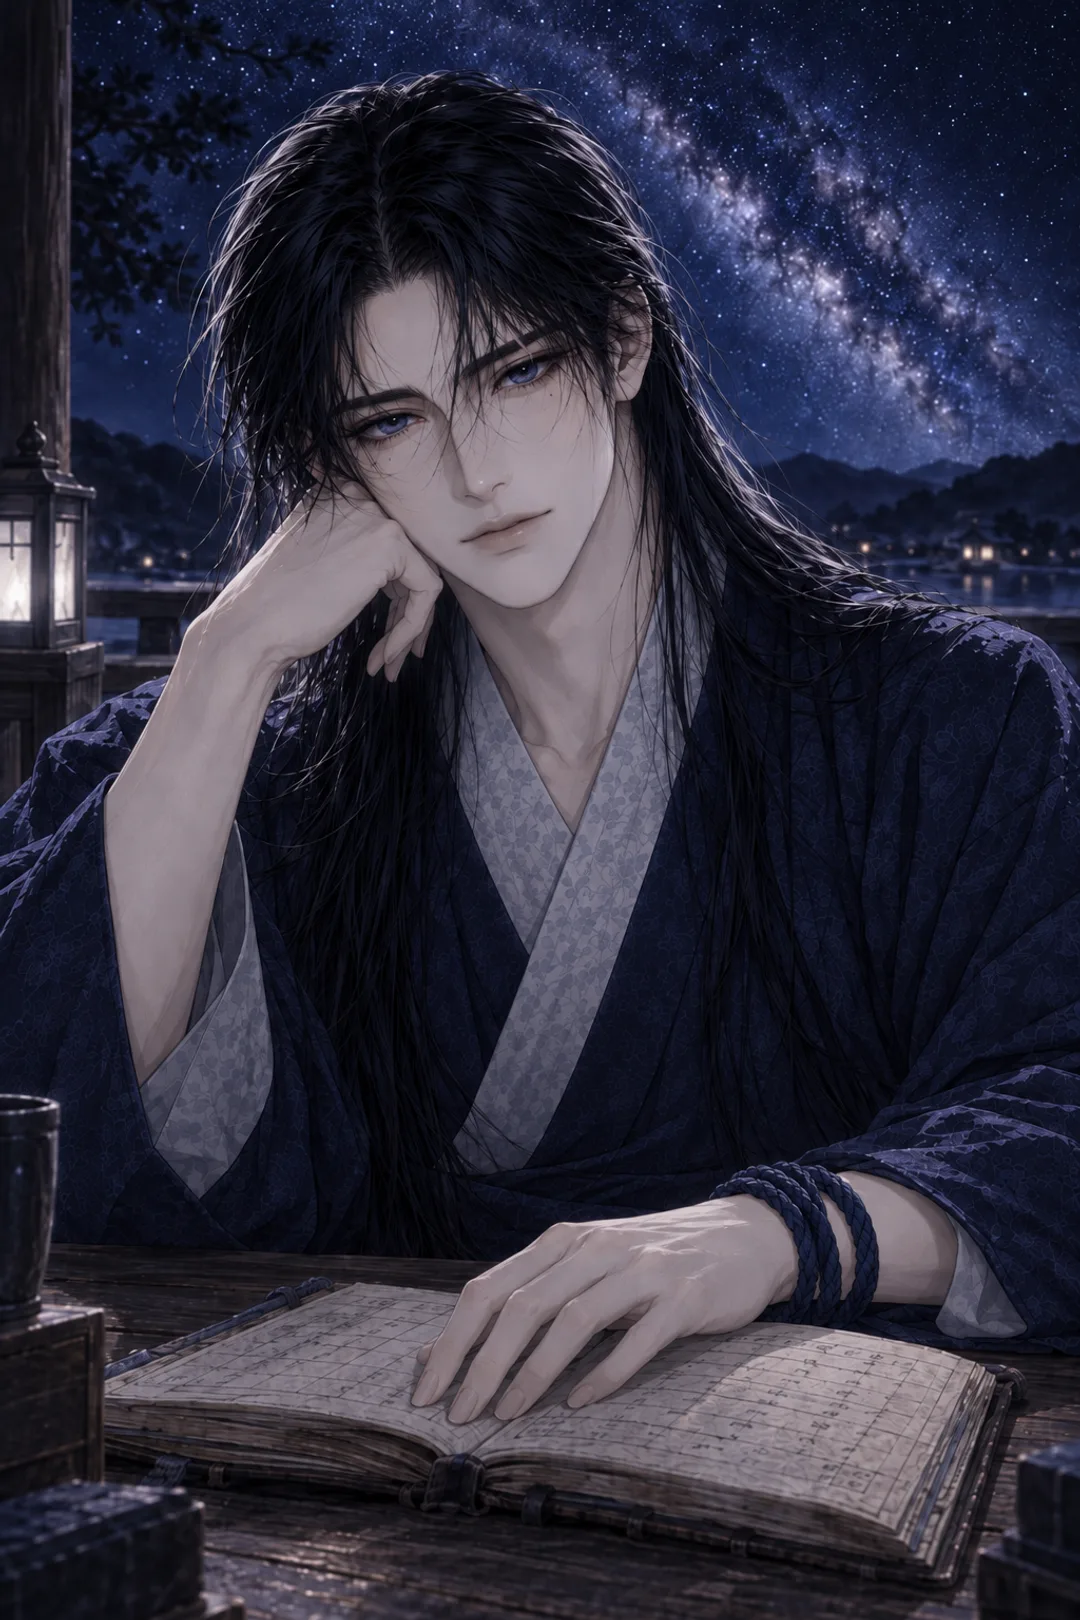
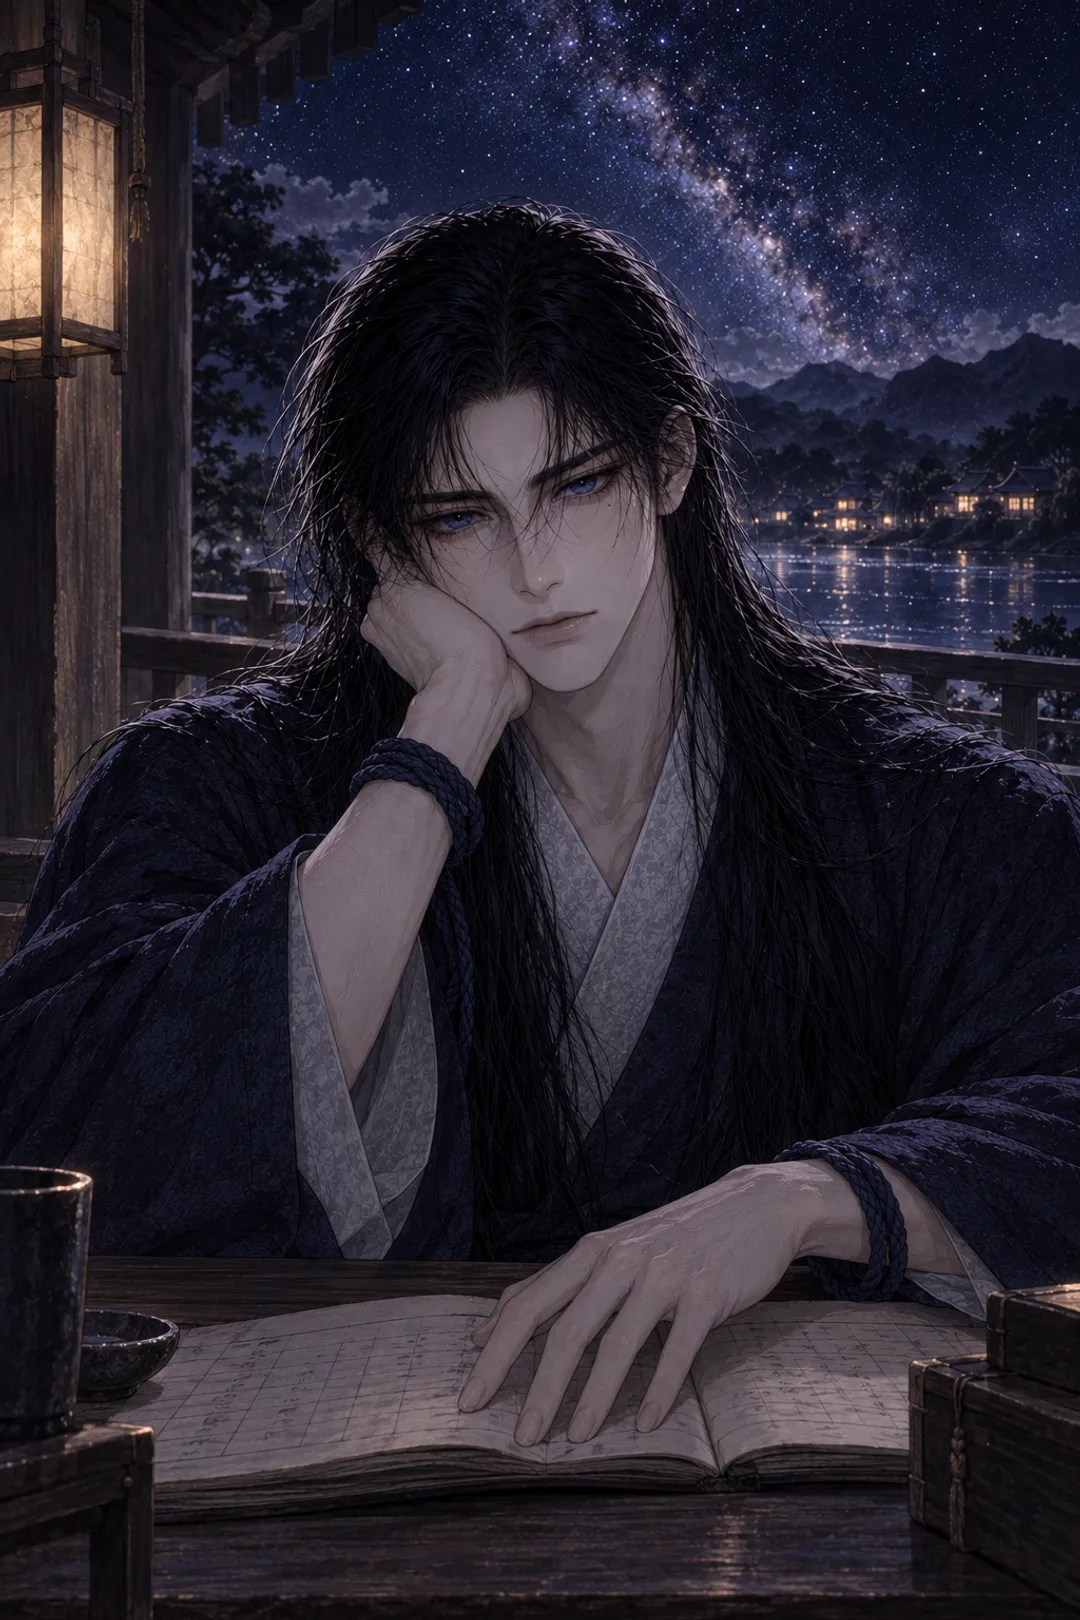
얼굴을 바꾸고도 컷이 옛 얼굴이던 것 — 시트부터 다시 파생해 인물 컷 세 장과 히어로를 새 얼굴로 갈아 끼운다
형님 픽(모피 초상판)을 fin-face 정본으로 올리고, 그 얼굴을 만든 채팅에서 이어서
6뷰 시트를 파생했다. 원판에 없던 왼눈 밑 점·홍채 별빛을 앵커 문장으로 심어 넣었고,
시트를 문맥에 둔 채로 대면·강가·배웅 컷을 연속 생성해 화풍을 한 벌로 물려받게 했다.

- 히어로는 3:2 로 자르면 말풍선이 입과 손을 통째로 덮어 눈만 남았다 → 5:6 으로 키웠다.
  첫 CTA 는 여전히 폴드(812) 안이고, 「견 우」 붓글씨 자리 최악 대비 13.2 로 잰다.
- 배웅 컷 첫 판에 보름달이 들어와 혼자 튀었다. 판넬 6장 전수 실측 결과 하늘 광원이
  은하수 하나뿐이라, 달을 지운 판으로 다시 뽑아 교체했다.
- 말풍선 자리는 두 컷 다 기존 값이 그대로 맞았다 — 라이브 DOM 실측으로 확인
  (g-river x2.5~42.5 y4~25.9 빈 하늘 / g-greet x2~46 y55~79.1 왼쪽 소매, 넘침 0).

diff --git a/src/components/products/GyeonuLanding.tsx b/src/components/products/GyeonuLanding.tsx
@@ -31,10 +31,12 @@ const BONE = "#e9ecf4";
 const SUB = "#93a0b8";
 const LINE = "rgba(207,214,230,0.22)";
 
-/** 히어로 그림 — 견우 확정 얼굴(견우/fin-face.png)을 1080폭 webp 로 구운 것. 원본 png 는 커밋 안 한다. */
+/** 히어로 그림 — 견우 확정 얼굴(견우/fin-face.png)을 1080폭 webp 로 구운 것. 원본 png 는 커밋 안 한다.
+ *  세로 5:6 인 이유(2026-09-05 실측): 말풍선이 아래 37% 를 덮는다. 3:2 로 자르면 입과 손이 통째로
+ *  가려 눈만 남았다. 5:6 으로 키우니 눈·손·고삐끈이 다 살고 첫 CTA 도 폴드(812) 안에 남는다. */
 const HERO = "/products/reunion/gyeonu-hero.webp";
 const HERO_W = 1080;
-const HERO_H = 720;
+const HERO_H = 1200;
 
 /** CTA 는 전부 이 페이지 아래 위저드로 내린다(#start). 다른 상품으로 새 나가지 않는다. */
 const CTA_HREF = "#start";

diff --git a/견우/컨셉_실행계획_2026-09-03.md b/견우/컨셉_실행계획_2026-09-03.md
@@ -1,0 +1,78 @@
+# 견우 — 컨셉·자산·영상 실행계획 (2026-09-03 새벽)
+
+> 형님 지시: 「캐릭터 시트부터 컨셉부터 어떤 영상을 만들 건지 등등 다 계획하고 실행 ㄱㄱ」
+> 상품: 「견우의 재회예보」(reunion-saju, 29,900/정가 44,900) — 코드 1·2단계 완료(워크트리 `jiknyeo-reunion` 9커밋).
+
+---
+
+## 1. 캐릭터 확정 기록 (2026-09-03 새벽, 형님 픽)
+
+- **fin-face 확정**: `견우/fin-face.png` — 형님이 ChatGPT에서 직접 몰아간 판(「별빛 아래, 긴 머리의 사내」).
+  경로: 셀 웹툰체 3판 → 반실사 → j1 담채체 → 형님 레퍼런스 2장(모던 퇴폐·한복 산발) → **B 얼굴+장발 합성판 확정**.
+- **그림체**: 정밀 반실사 K-일러 — 머리카락 낱올·매트한 창백 피부·시네마틱 밤 조명. j1(직녀) 세필과 같은 페이지에 서는 밀도.
+- **컨셉 한 줄**: 강(은하수) 건너를 바라보며 기다리는 남자. 나른한 우수 + 차가운 미모에 따뜻한 균열 하나.
+
+### 견우 5앵커 (검수 게이트 — 직녀 프로토콜 번안, 9/3 형님 「상처 준다며?」로 흉터 복귀)
+| 앵커 | 본다 |
+|---|---|
+| ① 눈 | **잉크 남색**으로 읽히나 + 은빛 별점(직녀와 커플 코드) |
+| ② 점 | **왼눈 바깥 밑** 그 자리에 있나 (직녀와 같은 자리 = 부부 운명 코드) |
+| ③ 흉터 | **오른눈썹 끝을 지나는 가늘고 옅은 옛 상처** — 견우 고유의 세월 흔적. 점=커플 코드 / 흉터=견우 서사로 역할 분담 |
+| ④ 고삐끈 | 낡은 쪽빛 고삐끈이 **왼손목**에 감겨 있나 (목동의 신분증) |
+| ⑤ 나이 | **31~33살** 성인 남성으로 읽히나 (소년·아이돌상이면 탈락) |
+| ⑥ 동일인 | **기존 합격 컷과 나란히** 같은 사람인가 (골격·눈매·인상 — 혼자 보지 말 것) |
+- 컷 뽑을 때 **첨부는 언제나 2장**: `캐릭터시트_정본.png`(부품) + 최신 합격 컷(계보). 직녀 8/26 사고 재발 방지.
+- 나이 가드 문장(매 컷 필수): "AGE IS CRITICAL: he is 33. Adult male proportions - longer oval face, defined jawline, visible nose bridge. NEVER a teenager, NEVER an androgynous boy-idol face."
+
+## 2. 시트 공정 (진행 중)
+
+1. ✅ fin-face 확보 (`견우/fin-face.png`)
+2. 🔨 **모델 시트 생성 중** (ChatGPT, fin-face 첨부, 6뷰: 정면/반측/측면/전신/표정2/시그니처 클로즈업)
+3. 시트 4앵커 검수 + fin-face 대조(⑤) → 형님 픽 → **`견우/캐릭터시트_정본.png` 승격**
+4. `견우/캐릭터시트_프롬프트.md` 작성(이 문서 §1 앵커 포함 프로토콜)
+
+## 3. 컷 발주 리스트 (시트 확정 후 — 코드 슬롯과 1:1)
+
+P2-2 실측: 티저·결과지 견우 컷 슬롯 전부 비어 있음(대사·글로 성립 중). 우선순위순:
+
+| # | 컷 id | 장면 | 쓰이는 곳 | 비고 |
+|---|---|---|---|---|
+| 1 | g-greet | 정면, 위로의 눈, 장부를 앞에 둔 반신 | 결과지 1장 도입·위저드 위로 화면 | 첫 발주(계보 시작) |
+| 2 | g-river | 강(은하수) 건너를 바라보는 반측/뒷모습 | 2장 「강이 갈라진 날」·티저 T2 | 얼굴 작음 — 나이 가드 강화 |
+| 3 | g-ledger | 장부 펴는 손 클로즈업(+고삐끈) | 4장 판정·티저 잠금 | 손+소품 컷 |
+| 4 | g-bridge | 은하수에 까치 다리가 놓이는 풍경, 견우 실루엣 | 5장 「다리가 놓이는 달」·티저 T1 배경 | 오작교 서사의 그림 |
+| 5 | g-farewell | 배웅 — 등을 보이고 손 든 컷 | 10장 편지·페이드 엔딩 | 직녀 배웅컷 대구 |
+| 6 | g-lead | 티저 반전 절단 앞 정점 컷(얼굴 클로즈업) | 티저 T5 lead | fin-face 재활용 검토 |
+
+- 발주 문장은 `견우/에셋_생산_프롬프트시트.md`(작성 예정)에 고정 블록+컷별 COMPOSITION으로.
+- 검수: 컷마다 4앵커 30초 + **기존 컷 옆에 붙인 대조 시트**(⑤). 2개 이상 어긋나면 리터치 말고 재생성.
+
+## 4. 영상 계획 — 광고 4종 (전부 아카이브 실측 근거)
+
+| # | 소재 | 설계 | 근거(실측) | 도구·비용 |
+|---|---|---|---|---|
+| V1 | **견우 시네마틱 루프** (메인) | 확정 컷 정지화 → 머리카락·은하수만 흐르고 인물은 석상. 자막 = 훅 A/B(기획서 §7) | 신점 레인 판독 「이 레인에 제대로 만든 영상이 없다 — 전부 정지컷 슬라이드쇼 아니면 폰 UGC」 + 산군 A-1이 같은 공식으로 레인 유일 시네마틱 | 힉스필드 「살아있는 루프」 레시피(8/23 실측: 첫만+카메라 고정+인물 석상+요소 명령) |
+| V2 | **읽씹의 밤 UI 모션** | 카톡 알림 UI 위장 + 「마지막 톡 ○일째」 카운터 → 훅 C 착지 | 재회 레인 실측 「카톡 알림 화면 위장: 22:41 + 전남친 후회가 오는 시기」 + 「읽씹, 차단」 후기 | CapCut 조립, 인물 발화 0, 제작비 0 |
+| V3 | **결과지 채워지는 애니** | 재회 티저·결과지 실물이 스르륵 채워지는 화면 녹화 | 음양관 커리어 실측 「결과지 UI 채워지는 애니메이션」(예외적으로 뛰어난 2편 중 하나) + 상품 실물 증거 | 화면 녹화+CapCut, 제작비 0 |
+| V4 | **오작교 게이트 루프** | 은하수에 다리가 놓이는 5~7초 — 티저 T1 배경/게이트 영상 | 직녀 w2·w4 게이트 영상 선례 + 오작교 서사 | 힉스필드, g-bridge 정지컷 기반 |
+| 보류 | 서윤 UGC 재회판 | 서윤 서사가 원래 재회(「헤어진 사람한테 연락하고 싶다」) | ⑥ 서윤 이관 픽 **대기** — 산군 세트와 같은 얼굴 동시 노출 금지 규칙 | Seedance+CapCut(기존 파이프) |
+
+**공통 금지(산군 소재 규칙 준용)**: 가격·할인·% 자막 금지 · 연·월 구체 숫자 자막 금지 · 「웹툰」을 셀링포인트로 쓰지 않음(2사 선점 실측) · 박수무당 직접 발화형 금지 규칙은 견우에도 준용(견우 립싱크 금지, 무성+TTS·자막). TTS는 Supertonic 남성 저음(로컬 0원) 우선.
+
+## 5. 코드 잔여 (P2-3 — Opus)
+
+1. 🔴 **DB 시드 미실행** — `pnpm seed:products` 는 상품을 **라이브 공개**하는 행위. 운영에서 지금 재회 페이지 404(실측). **형님 승인 게이트.** (배포 순서: 브랜치 push→main 병합→배포→시드가 안전)
+2. **재회 전용 랜딩 없음** — 위저드 위가 공용 보라 템플릿. 견우 세계관 랜딩(광고 착지) 필요.
+3. 견우 컷 배선 (§3 완료 후 슬롯에 얹기)
+4. **표본 검증** — 서윤 명식으로 결과지 실생성(API) → 린터·출고 게이트 → DOM 실측 → 캡처 눈검수
+5. 공용 해요체 문구(콜드리딩 3줄·짝 프로필 표)의 견우 담백체 분리 — 4상품 공용 파일이라 신중히
+
+## 6. 순서
+
+```
+지금   시트 생성(굽는 중) → 검수 → 형님 픽 → 정본 승격
+  →   프로토콜·에셋시트 문서 → 컷 1~6 발주(밤 사이 가능한 만큼) → 대조 검수
+  →   P2-3 발사(랜딩+표본+게이트, Opus) — 컷과 병행
+  →   V4·V1 정지컷 → 힉스필드 모션 → V2·V3 조립
+게이트  ① 시드·배포 = 형님 승인 ② 시트·컷 픽 = 형님 ③ 서윤 이관 = 형님 픽 대기
+```

diff --git a/견우/캐릭터시트_프롬프트.md b/견우/캐릭터시트_프롬프트.md
@@ -1,0 +1,81 @@
+# 견우 캐릭터 유지 장치 — 시트 정본 + 첨부 프로토콜 (2026-09-04)
+
+> 목적: 컷을 여러 장 뽑는 동안 **얼굴 드리프트**를 막는다. 직녀 프로토콜(`직녀/캐릭터시트_프롬프트.md`)의 견우판.
+> 확정 얼굴: `견우/fin-face.png` (**2026-09-05 형님 확정 — 모피 초상판**: 별빛 아래 손등 입가림, 가늘고 날카로운 눈매.
+>   구판 B얼굴+장발은 `fin-face_v1_B얼굴장발.png` 로 보관)
+> 정본 시트: `견우/캐릭터시트_정본.png` (**2026-09-05 모피얼굴 파생판** 1254×1254 6뷰 — 6앵커 실측 ⑥ 동일인 통과·③ 흉터만 뭉갬.
+>   구 v3 큰눈판은 `캐릭터시트_정본_v3큰눈판_구.png` 보관)
+> 화풍 정본: 컷은 **담채(v4)** — g-greet v4·판넬v2 를 뽑은 ChatGPT 채팅의 담채 발주문이 질감 정본.
+>   (아래 고정 블록의 STYLE 문단은 입체(v3) 시절 것 — 컷 발주에 그대로 쓰지 말 것)
+> ⚠ GPT 이미지 API 금지 — ChatGPT 웹에서 뽑는다.
+
+## 컷 뽑을 때 (매번)
+
+**우선 경로 — 시트를 만든 그 채팅에서 이어서 뽑는다**(2026-09-05 실측: 얼굴·시트·컷 5장을 한 채팅에서
+연속 생성하니 6앵커가 전부 따라왔다). 첨부는 필요 없다 — 문맥에 얼굴이 살아 있는 쪽이 첨부보다 강하다.
+발주문 첫 줄에 **"the SAME man from the reference sheet directly above"** 를 박고,
+**"Same style and palette as the previous image"** 로 화풍을 물려받는다.
+
+채팅이 끊겼을 때만 첨부 경로로 간다:
+
+```
+[첨부 1] 견우/캐릭터시트_정본.png     ← 부품 신분증(눈·점·흉터·고삐끈)
+[첨부 2] 최신 합격 인물 컷 1장        ← 계보 신분증(골격·인상). 선택 아님, 필수
+         (첫 컷은 합격 컷이 없으므로 fin-face.png 를 2번 첨부로.
+          2026-09-05 얼굴 교체로 계보 리셋 — 구 얼굴 시절 합격 컷은 계보 신분증 자격 상실)
++ "Use BOTH attached images as identity references - they are the SAME man.
+   Match the FACE STRUCTURE of the second image."
++ 고정 블록(아래) + 컷별 COMPOSITION 한 줄 + 나이 가드(아래)
+```
+
+### 하늘 코드 — **달을 그리지 말 것**
+재회 자산 11종 전수 실측(2026-09-05): 판넬 6장 전부 하늘 광원이 **은하수 하나뿐**이다.
+배웅 컷 첫 판에 보름달이 들어와 혼자 튀었다 → "NO moon anywhere, the only light in the sky is
+the Milky Way and the stars" 로 다시 뽑아 교체. 달빛 보라는 **직녀 쪽 코드**다(팔레트 주석 참조).
+
+### 고정 블록 (화풍·정체) — ⚠ STYLE 문단은 입체(v3) 시절 정본. 컷 발주 땐 담채(v4) 문장으로 갈아 끼울 것. THE MAN 문단은 계속 유효
+```
+STYLE: refined semi-realistic Korean webtoon illustration - ultra-fine individual hair
+strands, porcelain-pale skin with cool violet night tones. STRONG THREE-DIMENSIONAL
+facial modeling: sculpted volumetric shading - shadow planes under the cheekbones and
+jawline, nose-bridge shadow, depth in the eye sockets, dimensional lips; a directional
+cool moonlight key with soft core shadow on the opposite side, faint starlit rim light.
+The face reads as a sculpted 3D form under night light - NOT flat, NOT matte-even.
+NOT flat cel, NOT a 3D render, NOT photorealistic, NOT anime.
+THE MAN: Gyeonwoo, the herdsman of the Korean weaver-and-herdsman legend. LONG loose
+black hair. Humble dark-indigo hanbok robe of coarse woven cloth, pale hemp collar.
+A worn indigo rope (his cattle lead) coiled once around his LEFT wrist.
+Deep-indigo night, the Milky Way above.
+ABSOLUTELY NO RED, CRIMSON OR PINK anywhere. NO text, NO labels.
+```
+
+### 나이 가드 (모든 인물 컷 필수 — 빼면 어려진다)
+```
+AGE IS CRITICAL: he is 33 years old. Adult male proportions - a longer oval face,
+defined jawline, visible nose bridge, broad shoulders. His eyes are NARROW, long and
+sharply lidded - heavy upper lids, a cool level gaze - ADULT eyes; NEVER round childlike
+anime eyes, NEVER a teenager, NEVER an androgynous boy-idol face.
+```
+
+## 6앵커 게이트 (컷 받자마자 30초)
+
+| 앵커 | 본다 |
+|---|---|
+| ① 눈 | **잉크 남색 + 홍채 안 별빛**으로 읽히나 (직녀와 커플 코드). **가늘고 날카로운 눈매**(2026-09-05 새 얼굴 기준), 성인 눈 |
+| ② 점 | **왼눈 바깥 밑** 그 자리에 있나 (직녀와 같은 자리 = 부부 코드) |
+| ③ 흉터 | **오른눈썹 끝을 끊는 가늘고 옅은 옛 상처** — 붉으면 탈락(NO RED 규칙) |
+| ④ 고삐끈 | 낡은 쪽빛 고삐끈이 **왼손목**에 있나 (프레임에 손목이 나올 때) |
+| ⑤ 나이 | 31~33 성인 남성. 얼굴 작은 컷(뒷모습·와이드)일수록 어린 쪽으로 흐른다 — 주의 |
+| ⑥ 동일인 | **기존 합격 컷을 옆에 붙인 대조 시트**로 같은 사람인가. 혼자 보면 통과시킨다 |
+
+**⑥이 어긋나거나 ①~⑤ 중 2개 이상 어긋나면 그 판은 버리고 재생성** — 부분 수정 요청은 얼굴을 더 민다.
+(+ 공통 검수: 빨강 0 · 375px 축소에서 얼굴 생존)
+
+## 알려진 버릇 (실측)
+- **새 fin-face(모피 초상판) 실측 2026-09-05**: 원판에 **왼눈밑 점 ✗ · 오른눈썹 흉터 ✗ · 별 하이라이트 약함** —
+  셋 다 시트 파생 때 앵커 문장으로 **심어야** 한다. 남보라 눈·왼손목 고삐끈은 원판에 이미 있음.
+  모피 숄·손등 입가림은 이 초상 고유 연출 — 시트·티저 컷 복식은 **무명 두루마기**(모피판은 광고 소재용 킵).
+- v3 시트에서 볼에 **주근깨 잔점**이 생겼다(fin-face에 없음). 컷에서 나타나면 앵커 ②(점 1개)와 혼동되니
+  프롬프트에 "clear skin, NO freckles - only the single mole below his LEFT eye"를 넣어 눌러라.
+- 흉터는 「clearly cutting through the tail end of his RIGHT eyebrow, interrupting the eyebrow hair」
+  까지 써야 박힌다. 「small pale scar」만 쓰면 뭉개진다(v1 실측).
